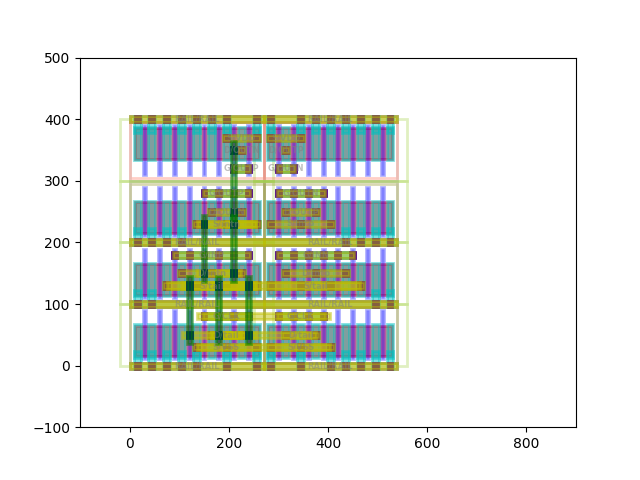
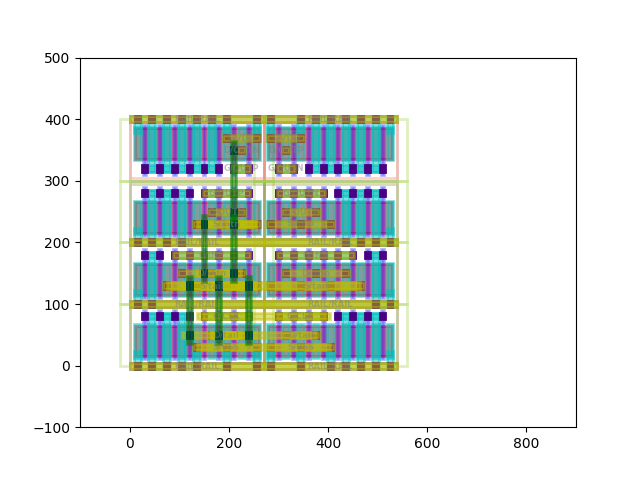
update laygo2_tech_quick_start

Changed region(s): [[0.4688, 0.2812, 0.625, 0.75], [0.2188, 0.2812, 0.3438, 0.4688], [0.2188, 0.5, 0.3125, 0.75]]

diff --git a/laygo2_tech_quick_start/laygo2_tech_templates.py b/laygo2_tech_quick_start/laygo2_tech_templates.py
@@ -223,10 +223,28 @@ def mos_generate_func(devtype, name=None, shape=None, pitch=np.array([0, 0]), tr
             )
             rxy = np.array([[sdx + us[0] * i - 5, -5], [sdx + us[0] * i + 5, 5]])
             nelements["V1TIE" + str(i)] = laygo2.object.Rect(xy=rxy, layer=["via1", "drawing"], name="V1TIE" + str(i))
-    # metal1/via1 - dummy
+    # metal1/via1 - dummy (gate)
+    if nfdl > 0:
+        rxy = np.array([[gblx + blx + 12, 75], [gblx + blx + us[0] * nfdl - 12, us[1] - 15]])
+        nelements["M1DMYGL"] = laygo2.object.Rect(xy=rxy, layer=["metal1", "drawing"], name="M1DMYGL")
+        gx = gblx + blx
+        for i in range(nfdl):
+            rxy = np.array([[gx + us[0] * i - 5 + 15, 75], [gx + us[0] * i + 5 + 15, us[1] - 15]])
+            nelements["VDMYGL" + str(i)] = laygo2.object.Rect(xy=rxy, layer=["via1", "drawing"], name="VDMYGL" + str(i))
+    if nfdr > 0:
+        rxy = np.array([[gblx + blx + us[0] * (nfdl + nf) + 12, 75], [gblx + blx + us[0] * (nfdl + nf + nfdr) - 12, us[1] - 15]])
+        nelements["M1DMYGR"] = laygo2.object.Rect(xy=rxy, layer=["metal1", "drawing"], name="M1DMYGR")
+        gx = gblx + blx + (nfdl + nf) * us[0]
+        for i in range(nfdr):
+            rxy = np.array([[gx + us[0] * i - 5 + 15, 75], [gx + us[0] * i + 5 + 15, us[1] - 15]])
+            nelements["VDMYGR" + str(i)] = laygo2.object.Rect(xy=rxy, layer=["via1", "drawing"], name="VDMYGR" + str(i))
+    # metal1/via1 - dummy (source/drain)
     sdx = gblx + blx
     for i in range(nfdl + 1 - 1):
-        rxy = np.array([[sdx + us[0] * i - 7, -5], [sdx + us[0] * i + 7, 23]])
+        if i == 0:
+            rxy = np.array([[sdx + us[0] * i - 7, -5], [sdx + us[0] * i + 7, 23]])
+        else:
+            rxy = np.array([[sdx + us[0] * i - 7, -5], [sdx + us[0] * i + 7, us[1] - 15]])
         nelements["M1DML" + str(i)] = laygo2.object.Rect(
             xy=rxy, layer=["metal1", "drawing"], name="M1DML" + str(i)
         )
@@ -234,7 +252,10 @@ def mos_generate_func(devtype, name=None, shape=None, pitch=np.array([0, 0]), tr
         nelements["V1DML" + str(i)] = laygo2.object.Rect(xy=rxy, layer=["via1", "drawing"], name="V1DML" + str(i))
     sdx = gblx + blx + (nfdl + nf) * us[0]
     for i in range(1, nfdr + 1):
-        rxy = np.array([[sdx + us[0] * i - 7, -5], [sdx + us[0] * i + 7, 23]])
+        if i == nfdr:
+            rxy = np.array([[sdx + us[0] * i - 7, -5], [sdx + us[0] * i + 7, 23]])
+        else:
+            rxy = np.array([[sdx + us[0] * i - 7, -5], [sdx + us[0] * i + 7, us[1] - 15]])
         nelements["M1DMR" + str(i)] = laygo2.object.Rect(
             xy=rxy, layer=["metal1", "drawing"], name="M1DMR" + str(i)
         )
